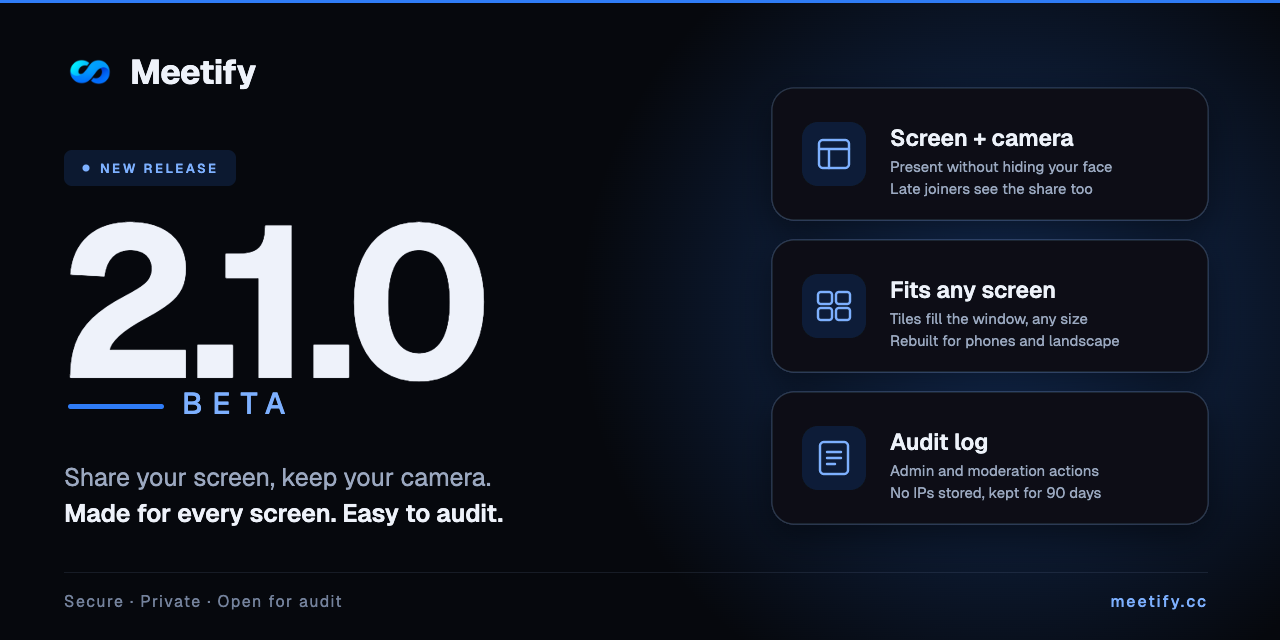
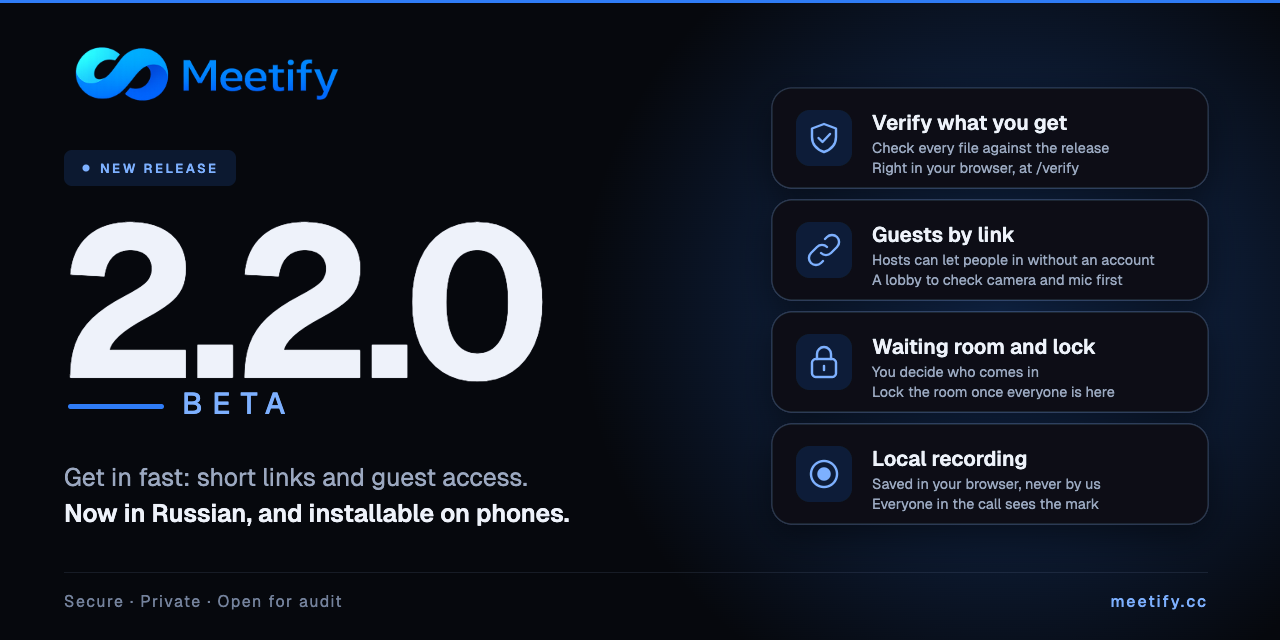
chore(release): 2.2.0-beta

diff --git a/CHANGELOG.md b/CHANGELOG.md
@@ -11,26 +11,56 @@ containers as `APP_VERSION` by `make up`.
 
 ## [Unreleased]
 
+## [2.2.0-beta] — 2026-11-18
+
+"Get in fast": short links, guests, a lobby, a waiting room, and a page that lets anyone check the code they get.
+
 ### Added
+- **Verify what you get.** A new page, `/verify/`, downloads every file of the site in your browser,
+  computes its SHA-256 and compares it with the list published with the release. The list's own hash
+  is in the release notes, and `tools/verify-live.js` does the same check from a terminal.
 - **Short invite links.** Every room has a random code; the link looks like `/r/abc-defg-hij`
   and works for unlisted rooms too. "Copy link" in the room and in the list now copies it.
   Old `conf_join.html?id=N` links keep working.
-- **Guest join.** A host can let guests into a room (checkbox on the create and edit forms, off by
-  default). A guest opens the invite link, types a name and is in the call, with no account and no
-  email. Guests are shown as "(guest)" everywhere, cannot moderate or become co-hosts, count towards
-  the room limit, and can be muted or removed by the host. Nothing about a guest is saved in the database.
-- **Start a call now.** One click on the conference list creates an unlisted peer-to-peer room
-  and opens it. "Create room" stays for names, passwords, schedules and Group mode.
+- **Guest join.** A host can let guests into a room (off by default, a switch on the create and edit
+  forms). A guest opens the invite link, types a name and is in the call, with no account and no email.
+  Guests are shown as "(guest)", cannot moderate, count towards the room limit, and nothing about
+  them is saved.
+- **Start a call now.** One click on the conference list creates an unlisted peer-to-peer room and opens it.
+- **Lobby before you join.** Camera preview, microphone level, camera, microphone and speaker choice,
+  and "join muted". Nothing is sent until you press "Join now". Devices can also be switched during the call.
+- **Waiting room and room lock.** With the waiting room on, people wait outside until the host or a
+  co-host lets them in (one by one or all at once) or turns them away. The room can be locked once
+  everyone is in.
+- **Local recording.** The host and co-hosts (and members, if the host allows it) can record the call in
+  their own browser. The file is saved on their device, never by us, and everybody in the call sees the
+  REC mark while it runs.
+- **Room interaction.** The person speaking is highlighted, hands can be raised, six reactions,
+  keyboard shortcuts (press `?`), and hold Space to talk while muted.
+- **Russian.** The landing, sign-in pages, join page and the whole room are available in Russian, with a
+  language switch. More pages follow.
+- **Install on your phone.** Meetify can be installed as an app; the screen stays on during a call,
+  picture-in-picture, and a front/back camera switch. There is no service worker, so nothing can go stale.
+
+### Changed
+- **Calls survive a short network drop.** If your connection drops, your place is kept for a few seconds
+  and you come back without the others seeing you leave. A page reload brings you back into the room.
 
 ### Security
-- Unlisted rooms are now really invite-only: joining needs the invite code (or the room
-  password, as before). Before, the room page was hidden but a guessed room number could join.
-- The room list no longer shows other people's unlisted rooms when asked for `isPublic=false`.
-- The room details response no longer contains the bcrypt hash of the room password.
-- Invite codes are kept out of the web server and backend logs.
+- Unlisted rooms are now really invite-only: joining needs the invite code (or the room password).
+- The room list no longer shows other people's unlisted rooms, and room details no longer contain the
+  room password's hash.
+- Invite codes are kept out of the logs, including the error log.
+- Passwords need at least 8 characters everywhere, including password change and reset.
+- Names are cleaned before they are shown, every HTML helper escapes quotes, and the room and the admin
+  panel no longer build click handlers from names.
+- A security policy is sent in report-only mode, plus a permissions policy; admin pages have their
+  security headers back. A `security.txt` tells researchers how to reach us.
 
 ### Fixed
 - Joining a room through a link no longer depends on the current page address.
+- A reload no longer locks a member out of an unlisted room.
+- Two people joining at nearly the same moment now connect to each other.
 
 ## [2.1.0-beta] — 2026-11-09
 

diff --git a/SECURITY.md b/SECURITY.md
@@ -8,8 +8,8 @@ there are no long-term support branches yet. Always run the most recent version
 
 | Version | Supported |
 | ------- | --------- |
-| 2.1.x-beta (latest) | ✅ |
-| < 2.1.0-beta | ❌ — please upgrade |
+| 2.2.x-beta (latest) | ✅ |
+| < 2.2.0-beta | ❌ — please upgrade |
 
 ## Reporting a Vulnerability
 
